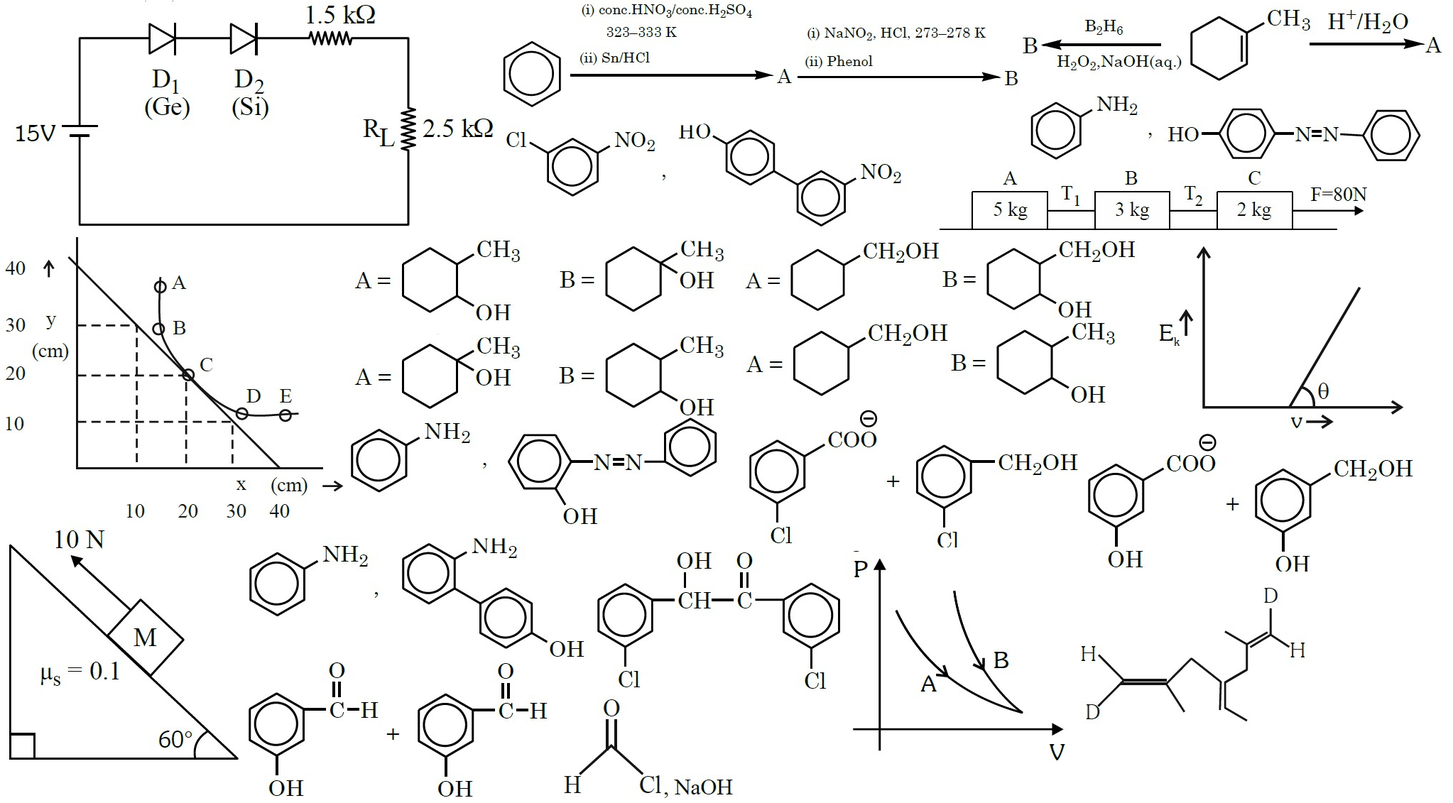
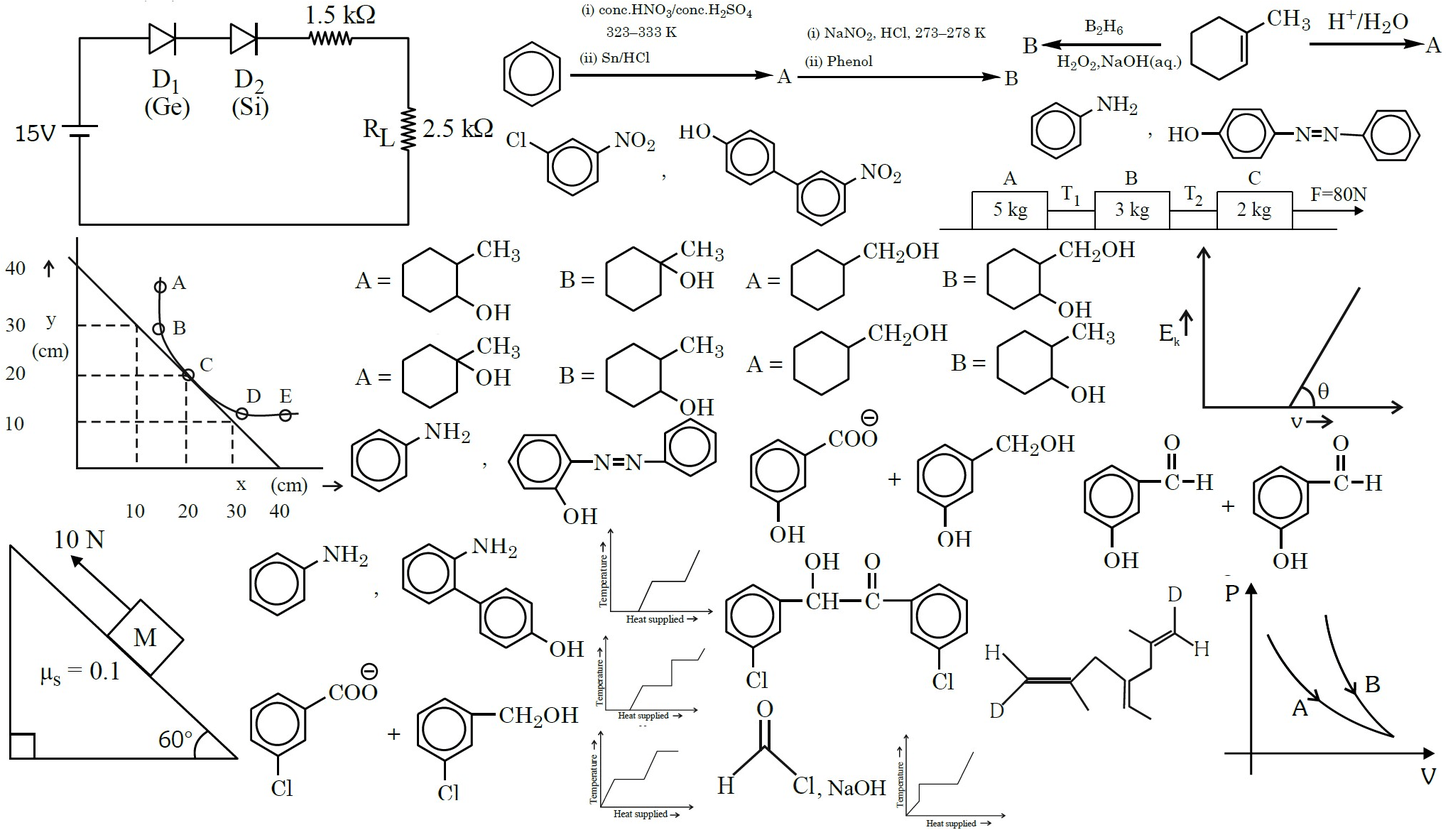
Fixed.

diff --git a/img/jee/mains/prev/jee_mn_30_jan_2024_s2.css b/img/jee/mains/prev/jee_mn_30_jan_2024_s2.css
@@ -8,70 +8,82 @@ Responsive: <div class="yourspritesname"></div>
 
 
 .jee_mn_30_jan_2024_s2_32 {max-width:338px; max-height:348px; }
-.jee_mn_30_jan_2024_s2_32::after {content: '\00a0';display: inline-block; width:338px; height:348px; background-position: 0.0585480093676815% 93.99744572158366%;background-size: 605.3254437869823% 325%;background-image: url(jee_mn_30_jan_2024_s2-0.png);padding: 0; }
+.jee_mn_30_jan_2024_s2_32::after {content: '\00a0';display: inline-block; width:338px; height:348px; background-position: 0.0585480093676815% 89.64677222898904%;background-size: 605.3254437869823% 335.91954022988506%;background-image: url(jee_mn_30_jan_2024_s2-0.png);padding: 0; }
 div.jee_mn_30_jan_2024_s2_32::after {max-width:338px; width:100%;height:0;padding: 0 0 102.9585798816568% 0;}
 .jee_mn_30_jan_2024_s2_33 {max-width:388px; max-height:268px; }
-.jee_mn_30_jan_2024_s2_33::after {content: '\00a0';display: inline-block; width:388px; height:268px; background-position: 96.86369119420989% 39.39745075318656%;background-size: 527.319587628866% 422.0149253731343%;background-image: url(jee_mn_30_jan_2024_s2-0.png);padding: 0; }
+.jee_mn_30_jan_2024_s2_33::after {content: '\00a0';display: inline-block; width:388px; height:268px; background-position: 96.86369119420989% 37.735849056603776%;background-size: 527.319587628866% 436.1940298507463%;background-image: url(jee_mn_30_jan_2024_s2-0.png);padding: 0; }
 div.jee_mn_30_jan_2024_s2_33::after {max-width:388px; width:100%;height:0;padding: 0 0 69.0721649484536% 0;}
+.jee_mn_30_jan_2024_s2_34_a {max-width:161px; max-height:140px; }
+.jee_mn_30_jan_2024_s2_34_a::after {content: '\00a0';display: inline-block; width:161px; height:140px; background-position: 66.57824933687003% 99.90281827016521%;background-size: 1270.807453416149% 835%;background-image: url(jee_mn_30_jan_2024_s2-0.png);padding: 0; }
+div.jee_mn_30_jan_2024_s2_34_a::after {max-width:161px; width:100%;height:0;padding: 0 0 86.95652173913044% 0;}
+.jee_mn_30_jan_2024_s2_34_b {max-width:179px; max-height:152px; }
+.jee_mn_30_jan_2024_s2_34_b::after {content: '\00a0';display: inline-block; width:179px; height:152px; background-position: 44.563470808784146% 72.8613569321534%;background-size: 1143.0167597765362% 769.078947368421%;background-image: url(jee_mn_30_jan_2024_s2-0.png);padding: 0; }
+div.jee_mn_30_jan_2024_s2_34_b::after {max-width:179px; width:100%;height:0;padding: 0 0 84.91620111731844% 0;}
+.jee_mn_30_jan_2024_s2_34_c {max-width:174px; max-height:127px; }
+.jee_mn_30_jan_2024_s2_34_c::after {content: '\00a0';display: inline-block; width:174px; height:127px; background-position: 44.44444444444444% 85.79654510556622%;background-size: 1175.8620689655172% 920.4724409448819%;background-image: url(jee_mn_30_jan_2024_s2-0.png);padding: 0; }
+div.jee_mn_30_jan_2024_s2_34_c::after {max-width:174px; width:100%;height:0;padding: 0 0 72.98850574712644% 0;}
+.jee_mn_30_jan_2024_s2_34_d {max-width:164px; max-height:138px; }
+.jee_mn_30_jan_2024_s2_34_d::after {content: '\00a0';display: inline-block; width:164px; height:138px; background-position: 43.35812964930925% 99.1270611057226%;background-size: 1247.560975609756% 847.1014492753624%;background-image: url(jee_mn_30_jan_2024_s2-0.png);padding: 0; }
+div.jee_mn_30_jan_2024_s2_34_d::after {max-width:164px; width:100%;height:0;padding: 0 0 84.14634146341463% 0;}
 .jee_mn_30_jan_2024_s2_36 {max-width:314px; max-height:297px; }
-.jee_mn_30_jan_2024_s2_36::after {content: '\00a0';display: inline-block; width:314px; height:297px; background-position: 68.70669745958429% 93.04556354916068%;background-size: 651.5923566878981% 380.80808080808083%;background-image: url(jee_mn_30_jan_2024_s2-0.png);padding: 0; }
+.jee_mn_30_jan_2024_s2_36::after {content: '\00a0';display: inline-block; width:314px; height:297px; background-position: 98.90300230946882% 92.88990825688073%;background-size: 651.5923566878981% 393.6026936026936%;background-image: url(jee_mn_30_jan_2024_s2-0.png);padding: 0; }
 div.jee_mn_30_jan_2024_s2_36::after {max-width:314px; width:100%;height:0;padding: 0 0 94.5859872611465% 0;}
 .jee_mn_30_jan_2024_s2_45 {max-width:699px; max-height:321px; }
-.jee_mn_30_jan_2024_s2_45::after {content: '\00a0';display: inline-block; width:699px; height:321px; background-position: 0.07423904974016332% 0.12345679012345678%;background-size: 292.7038626609442% 352.33644859813086%;background-image: url(jee_mn_30_jan_2024_s2-0.png);padding: 0; }
+.jee_mn_30_jan_2024_s2_45::after {content: '\00a0';display: inline-block; width:699px; height:321px; background-position: 0.07423904974016332% 0.1179245283018868%;background-size: 292.7038626609442% 364.17445482866043%;background-image: url(jee_mn_30_jan_2024_s2-0.png);padding: 0; }
 div.jee_mn_30_jan_2024_s2_45::after {max-width:699px; width:100%;height:0;padding: 0 0 45.92274678111588% 0;}
 .jee_mn_30_jan_2024_s2_47 {max-width:628px; max-height:108px; }
-.jee_mn_30_jan_2024_s2_47::after {content: '\00a0';display: inline-block; width:628px; height:108px; background-position: 91.74894217207334% 22.580645161290324%;background-size: 325.79617834394907% 1047.2222222222222%;background-image: url(jee_mn_30_jan_2024_s2-0.png);padding: 0; }
+.jee_mn_30_jan_2024_s2_47::after {content: '\00a0';display: inline-block; width:628px; height:108px; background-position: 91.74894217207334% 21.77191328934967%;background-size: 325.79617834394907% 1082.4074074074074%;background-image: url(jee_mn_30_jan_2024_s2-0.png);padding: 0; }
 div.jee_mn_30_jan_2024_s2_47::after {max-width:628px; width:100%;height:0;padding: 0 0 17.197452229299362% 0;}
 .jee_mn_30_jan_2024_s2_54 {max-width:483px; max-height:412px; }
-.jee_mn_30_jan_2024_s2_54::after {content: '\00a0';display: inline-block; width:483px; height:412px; background-position: 0.06397952655150352% 44.92350486787205%;background-size: 423.6024844720497% 274.5145631067961%;background-image: url(jee_mn_30_jan_2024_s2-0.png);padding: 0; }
+.jee_mn_30_jan_2024_s2_54::after {content: '\00a0';display: inline-block; width:483px; height:412px; background-position: 0.06397952655150352% 42.668428005284014%;background-size: 423.6024844720497% 283.7378640776699%;background-image: url(jee_mn_30_jan_2024_s2-0.png);padding: 0; }
 div.jee_mn_30_jan_2024_s2_54::after {max-width:483px; width:100%;height:0;padding: 0 0 85.30020703933748% 0;}
 .jee_mn_30_jan_2024_s2_62 {max-width:247px; max-height:148px; }
-.jee_mn_30_jan_2024_s2_62::after {content: '\00a0';display: inline-block; width:247px; height:148px; background-position: 43.96887159533074% 99.59308240081384%;background-size: 828.34008097166% 764.1891891891892%;background-image: url(jee_mn_30_jan_2024_s2-0.png);padding: 0; }
+.jee_mn_30_jan_2024_s2_62::after {content: '\00a0';display: inline-block; width:247px; height:148px; background-position: 55.97554196775987% 95.98432908912831%;background-size: 828.34008097166% 789.8648648648649%;background-image: url(jee_mn_30_jan_2024_s2-0.png);padding: 0; }
 div.jee_mn_30_jan_2024_s2_62::after {max-width:247px; width:100%;height:0;padding: 0 0 59.91902834008097% 0;}
 .jee_mn_30_jan_2024_s2_64_a {max-width:357px; max-height:202px; }
-.jee_mn_30_jan_2024_s2_64_a::after {content: '\00a0';display: inline-block; width:357px; height:202px; background-position: 49.2599171107164% 83.53067814854683%;background-size: 573.109243697479% 559.9009900990098%;background-image: url(jee_mn_30_jan_2024_s2-0.png);padding: 0; }
+.jee_mn_30_jan_2024_s2_64_a::after {content: '\00a0';display: inline-block; width:357px; height:202px; background-position: 59.91711071640024% 80.35160289555326%;background-size: 573.109243697479% 578.7128712871287%;background-image: url(jee_mn_30_jan_2024_s2-0.png);padding: 0; }
 div.jee_mn_30_jan_2024_s2_64_a::after {max-width:357px; width:100%;height:0;padding: 0 0 56.582633053221286% 0;}
 .jee_mn_30_jan_2024_s2_64_b {max-width:475px; max-height:201px; }
-.jee_mn_30_jan_2024_s2_64_b::after {content: '\00a0';display: inline-block; width:475px; height:201px; background-position: 66.39083386378103% 61.72043010752688%;background-size: 430.7368421052632% 562.6865671641791%;background-image: url(jee_mn_30_jan_2024_s2-0.png);padding: 0; }
+.jee_mn_30_jan_2024_s2_64_b::after {content: '\00a0';display: inline-block; width:475px; height:201px; background-position: 21.642266072565246% 96.07438016528926%;background-size: 430.7368421052632% 581.592039800995%;background-image: url(jee_mn_30_jan_2024_s2-0.png);padding: 0; }
 div.jee_mn_30_jan_2024_s2_64_b::after {max-width:475px; width:100%;height:0;padding: 0 0 42.31578947368421% 0;}
 .jee_mn_30_jan_2024_s2_64_c {max-width:450px; max-height:200px; }
-.jee_mn_30_jan_2024_s2_64_c::after {content: '\00a0';display: inline-block; width:450px; height:200px; background-position: 21.303258145363408% 99.89258861439312%;background-size: 454.6666666666667% 565.5%;background-image: url(jee_mn_30_jan_2024_s2-0.png);padding: 0; }
+.jee_mn_30_jan_2024_s2_64_c::after {content: '\00a0';display: inline-block; width:450px; height:200px; background-position: 94.9874686716792% 62.84829721362229%;background-size: 454.6666666666667% 584.5%;background-image: url(jee_mn_30_jan_2024_s2-0.png);padding: 0; }
 div.jee_mn_30_jan_2024_s2_64_c::after {max-width:450px; width:100%;height:0;padding: 0 0 44.44444444444444% 0;}
 .jee_mn_30_jan_2024_s2_64_d {max-width:472px; max-height:202px; }
-.jee_mn_30_jan_2024_s2_64_d::after {content: '\00a0';display: inline-block; width:472px; height:202px; background-position: 96.50571791613723% 65.55435952637244%;background-size: 433.47457627118644% 559.9009900990098%;background-image: url(jee_mn_30_jan_2024_s2-0.png);padding: 0; }
+.jee_mn_30_jan_2024_s2_64_d::after {content: '\00a0';display: inline-block; width:472px; height:202px; background-position: 66.26429479034307% 59.358841778697%;background-size: 433.47457627118644% 578.7128712871287%;background-image: url(jee_mn_30_jan_2024_s2-0.png);padding: 0; }
 div.jee_mn_30_jan_2024_s2_64_d::after {max-width:472px; width:100%;height:0;padding: 0 0 42.79661016949152% 0;}
 .jee_mn_30_jan_2024_s2_66 {max-width:607px; max-height:118px; }
-.jee_mn_30_jan_2024_s2_66::after {content: '\00a0';display: inline-block; width:607px; height:118px; background-position: 99.93050729673384% 0.09871668311944719%;background-size: 337.0675453047776% 958.4745762711865%;background-image: url(jee_mn_30_jan_2024_s2-0.png);padding: 0; }
+.jee_mn_30_jan_2024_s2_66::after {content: '\00a0';display: inline-block; width:607px; height:118px; background-position: 99.93050729673384% 0.09514747859181731%;background-size: 337.0675453047776% 990.6779661016949%;background-image: url(jee_mn_30_jan_2024_s2-0.png);padding: 0; }
 div.jee_mn_30_jan_2024_s2_66::after {max-width:607px; width:100%;height:0;padding: 0 0 19.43986820428336% 0;}
 .jee_mn_30_jan_2024_s2_66_a {max-width:561px; max-height:112px; }
-.jee_mn_30_jan_2024_s2_66_a::after {content: '\00a0';display: inline-block; width:561px; height:112px; background-position: 70.3030303030303% 33.36604514229637%;background-size: 364.70588235294116% 1009.8214285714286%;background-image: url(jee_mn_30_jan_2024_s2-0.png);padding: 0; }
+.jee_mn_30_jan_2024_s2_66_a::after {content: '\00a0';display: inline-block; width:561px; height:112px; background-position: 70.3030303030303% 32.16650898770104%;background-size: 364.70588235294116% 1043.75%;background-image: url(jee_mn_30_jan_2024_s2-0.png);padding: 0; }
 div.jee_mn_30_jan_2024_s2_66_a::after {max-width:561px; width:100%;height:0;padding: 0 0 19.964349376114082% 0;}
 .jee_mn_30_jan_2024_s2_66_b {max-width:557px; max-height:131px; }
-.jee_mn_30_jan_2024_s2_66_b::after {content: '\00a0';display: inline-block; width:557px; height:131px; background-position: 32.5721961047683% 45.6%;background-size: 367.3249551166966% 863.3587786259542%;background-image: url(jee_mn_30_jan_2024_s2-0.png);padding: 0; }
+.jee_mn_30_jan_2024_s2_66_b::after {content: '\00a0';display: inline-block; width:557px; height:131px; background-position: 32.5721961047683% 43.93063583815029%;background-size: 367.3249551166966% 892.3664122137404%;background-image: url(jee_mn_30_jan_2024_s2-0.png);padding: 0; }
 div.jee_mn_30_jan_2024_s2_66_b::after {max-width:557px; width:100%;height:0;padding: 0 0 23.518850987432675% 0;}
 .jee_mn_30_jan_2024_s2_66_c {max-width:540px; max-height:120px; }
-.jee_mn_30_jan_2024_s2_66_c::after {content: '\00a0';display: inline-block; width:540px; height:120px; background-position: 69.32270916334662% 44.80712166172107%;background-size: 378.8888888888889% 942.5%;background-image: url(jee_mn_30_jan_2024_s2-0.png);padding: 0; }
+.jee_mn_30_jan_2024_s2_66_c::after {content: '\00a0';display: inline-block; width:540px; height:120px; background-position: 69.32270916334662% 43.18398474737845%;background-size: 378.8888888888889% 974.1666666666666%;background-image: url(jee_mn_30_jan_2024_s2-0.png);padding: 0; }
 div.jee_mn_30_jan_2024_s2_66_c::after {max-width:540px; width:100%;height:0;padding: 0 0 22.22222222222222% 0;}
 .jee_mn_30_jan_2024_s2_66_d {max-width:558px; max-height:131px; }
-.jee_mn_30_jan_2024_s2_66_d::after {content: '\00a0';display: inline-block; width:558px; height:131px; background-position: 32.594086021505376% 32.4%;background-size: 366.6666666666667% 863.3587786259542%;background-image: url(jee_mn_30_jan_2024_s2-0.png);padding: 0; }
+.jee_mn_30_jan_2024_s2_66_d::after {content: '\00a0';display: inline-block; width:558px; height:131px; background-position: 32.594086021505376% 31.213872832369944%;background-size: 366.6666666666667% 892.3664122137404%;background-image: url(jee_mn_30_jan_2024_s2-0.png);padding: 0; }
 div.jee_mn_30_jan_2024_s2_66_d::after {max-width:558px; width:100%;height:0;padding: 0 0 23.476702508960575% 0;}
 .jee_mn_30_jan_2024_s2_68 {max-width:736px; max-height:156px; }
-.jee_mn_30_jan_2024_s2_68::after {content: '\00a0';display: inline-block; width:736px; height:156px; background-position: 53.51145038167939% 0.10256410256410256%;background-size: 277.9891304347826% 725%;background-image: url(jee_mn_30_jan_2024_s2-0.png);padding: 0; }
+.jee_mn_30_jan_2024_s2_68::after {content: '\00a0';display: inline-block; width:736px; height:156px; background-position: 53.51145038167939% 0.09871668311944719%;background-size: 277.9891304347826% 749.3589743589744%;background-image: url(jee_mn_30_jan_2024_s2-0.png);padding: 0; }
 div.jee_mn_30_jan_2024_s2_68::after {max-width:736px; width:100%;height:0;padding: 0 0 21.195652173913043% 0;}
 .jee_mn_30_jan_2024_s2_68_a {max-width:599px; max-height:165px; }
-.jee_mn_30_jan_2024_s2_68_a::after {content: '\00a0';display: inline-block; width:599px; height:165px; background-position: 48.44505874222529% 16.356107660455486%;background-size: 341.5692821368948% 685.4545454545455%;background-image: url(jee_mn_30_jan_2024_s2-0.png);padding: 0; }
+.jee_mn_30_jan_2024_s2_68_a::after {content: '\00a0';display: inline-block; width:599px; height:165px; background-position: 48.44505874222529% 15.737051792828685%;background-size: 341.5692821368948% 708.4848484848485%;background-image: url(jee_mn_30_jan_2024_s2-0.png);padding: 0; }
 div.jee_mn_30_jan_2024_s2_68_a::after {max-width:599px; width:100%;height:0;padding: 0 0 27.54590984974958% 0;}
 .jee_mn_30_jan_2024_s2_68_b {max-width:491px; max-height:188px; }
-.jee_mn_30_jan_2024_s2_68_b::after {content: '\00a0';display: inline-block; width:491px; height:188px; background-position: 21.864951768488744% 78.57900318133616%;background-size: 416.70061099796334% 601.5957446808511%;background-image: url(jee_mn_30_jan_2024_s2-0.png);padding: 0; }
+.jee_mn_30_jan_2024_s2_68_b::after {content: '\00a0';display: inline-block; width:491px; height:188px; background-position: 21.864951768488744% 75.53516819571865%;background-size: 416.70061099796334% 621.8085106382979%;background-image: url(jee_mn_30_jan_2024_s2-0.png);padding: 0; }
 div.jee_mn_30_jan_2024_s2_68_b::after {max-width:491px; width:100%;height:0;padding: 0 0 38.289205702647656% 0;}
 .jee_mn_30_jan_2024_s2_68_c {max-width:571px; max-height:110px; }
-.jee_mn_30_jan_2024_s2_68_c::after {content: '\00a0';display: inline-block; width:571px; height:110px; background-position: 97.49152542372882% 11.753183153770813%;background-size: 358.31873905429075% 1028.1818181818182%;background-image: url(jee_mn_30_jan_2024_s2-0.png);padding: 0; }
+.jee_mn_30_jan_2024_s2_68_c::after {content: '\00a0';display: inline-block; width:571px; height:110px; background-position: 97.49152542372882% 11.331444759206798%;background-size: 358.31873905429075% 1062.7272727272727%;background-image: url(jee_mn_30_jan_2024_s2-0.png);padding: 0; }
 div.jee_mn_30_jan_2024_s2_68_c::after {max-width:571px; width:100%;height:0;padding: 0 0 19.26444833625219% 0;}
 .jee_mn_30_jan_2024_s2_68_d {max-width:527px; max-height:152px; }
-.jee_mn_30_jan_2024_s2_68_d::after {content: '\00a0';display: inline-block; width:527px; height:152px; background-position: 31.92890059249506% 60.06128702757916%;background-size: 388.2352941176471% 744.078947368421%;background-image: url(jee_mn_30_jan_2024_s2-0.png);padding: 0; }
+.jee_mn_30_jan_2024_s2_68_d::after {content: '\00a0';display: inline-block; width:527px; height:152px; background-position: 31.92890059249506% 57.817109144542776%;background-size: 388.2352941176471% 769.078947368421%;background-image: url(jee_mn_30_jan_2024_s2-0.png);padding: 0; }
 div.jee_mn_30_jan_2024_s2_68_d::after {max-width:527px; width:100%;height:0;padding: 0 0 28.842504743833018% 0;}
 .jee_mn_30_jan_2024_s2_86 {max-width:342px; max-height:217px; }
-.jee_mn_30_jan_2024_s2_86::after {content: '\00a0';display: inline-block; width:342px; height:217px; background-position: 88.32159624413146% 88.8402625820569%;background-size: 598.2456140350877% 521.1981566820276%;background-image: url(jee_mn_30_jan_2024_s2-0.png);padding: 0; }
+.jee_mn_30_jan_2024_s2_86::after {content: '\00a0';display: inline-block; width:342px; height:217px; background-position: 80.39906103286386% 85.08403361344538%;background-size: 598.2456140350877% 538.7096774193549%;background-image: url(jee_mn_30_jan_2024_s2-0.png);padding: 0; }
 div.jee_mn_30_jan_2024_s2_86::after {max-width:342px; width:100%;height:0;padding: 0 0 63.45029239766082% 0;}
 
-/* $TexturePacker:SmartUpdate:c1d930d432e1ab8602310ad4c0ca22a2:10e28dc215dcaca6d09a18c9096b5087:305b36ae95e09a9448d84221d58ed21d$ */
+/* $TexturePacker:SmartUpdate:96830ebbe64d3e4aefa6103feaaf568d:4c8a7edde38707e3775f30fb8f1ecaef:305b36ae95e09a9448d84221d58ed21d$ */

diff --git a/img/jee/mains/prev/jee_mn_29_jan_2024_s1.css b/img/jee/mains/prev/jee_mn_29_jan_2024_s1.css
@@ -8,61 +8,73 @@ Responsive: <div class="yourspritesname"></div>
 
 
 .jee_mn_29_jan_2024_s1_31 {max-width:377px; max-height:222px; }
-.jee_mn_29_jan_2024_s1_31::after {content: '\00a0';display: inline-block; width:377px; height:222px; background-position: 0.16129032258064516% 89.47368421052632%;background-size: 264.45623342175065% 510.81081081081084%;background-image: url(jee_mn_29_jan_2024_s1-0.png);padding: 0; }
+.jee_mn_29_jan_2024_s1_31::after {content: '\00a0';display: inline-block; width:377px; height:222px; background-position: 44.938820912124584% 31.955922865013775%;background-size: 338.46153846153845% 427.02702702702703%;background-image: url(jee_mn_29_jan_2024_s1-0.png);padding: 0; }
 div.jee_mn_29_jan_2024_s1_31::after {max-width:377px; width:100%;height:0;padding: 0 0 58.88594164456234% 0;}
 .jee_mn_29_jan_2024_s1_46 {max-width:400px; max-height:295px; }
-.jee_mn_29_jan_2024_s1_46::after {content: '\00a0';display: inline-block; width:400px; height:295px; background-position: 0.16750418760469013% 61.97854588796186%;background-size: 249.25% 384.40677966101697%;background-image: url(jee_mn_29_jan_2024_s1-0.png);padding: 0; }
+.jee_mn_29_jan_2024_s1_46::after {content: '\00a0';display: inline-block; width:400px; height:295px; background-position: 0.1141552511415525% 79.63246554364471%;background-size: 319% 321.35593220338984%;background-image: url(jee_mn_29_jan_2024_s1-0.png);padding: 0; }
 div.jee_mn_29_jan_2024_s1_46::after {max-width:400px; width:100%;height:0;padding: 0 0 73.75% 0;}
 .jee_mn_29_jan_2024_s1_56 {max-width:402px; max-height:327px; }
-.jee_mn_29_jan_2024_s1_56::after {content: '\00a0';display: inline-block; width:402px; height:327px; background-position: 0.16806722689075632% 23.79182156133829%;background-size: 248.0099502487562% 346.7889908256881%;background-image: url(jee_mn_29_jan_2024_s1-0.png);padding: 0; }
+.jee_mn_29_jan_2024_s1_56::after {content: '\00a0';display: inline-block; width:402px; height:327px; background-position: 0.11441647597254005% 30.917874396135264%;background-size: 317.41293532338307% 289.908256880734%;background-image: url(jee_mn_29_jan_2024_s1-0.png);padding: 0; }
 div.jee_mn_29_jan_2024_s1_56::after {max-width:402px; width:100%;height:0;padding: 0 0 81.34328358208955% 0;}
 .jee_mn_29_jan_2024_s1_67 {max-width:562px; max-height:190px; }
-.jee_mn_29_jan_2024_s1_67::after {content: '\00a0';display: inline-block; width:562px; height:190px; background-position: 0.22988505747126436% 0.1059322033898305%;background-size: 177.40213523131672% 596.8421052631579%;background-image: url(jee_mn_29_jan_2024_s1-0.png);padding: 0; }
+.jee_mn_29_jan_2024_s1_67::after {content: '\00a0';display: inline-block; width:562px; height:190px; background-position: 0.1400560224089636% 0.13192612137203166%;background-size: 227.04626334519574% 498.94736842105266%;background-image: url(jee_mn_29_jan_2024_s1-0.png);padding: 0; }
 div.jee_mn_29_jan_2024_s1_67::after {max-width:562px; width:100%;height:0;padding: 0 0 33.80782918149466% 0;}
 .jee_mn_29_jan_2024_s1_67_a {max-width:172px; max-height:192px; }
-.jee_mn_29_jan_2024_s1_67_a::after {content: '\00a0';display: inline-block; width:172px; height:192px; background-position: 93.93939393939394% 78.23779193205945%;background-size: 579.6511627906976% 590.625%;background-image: url(jee_mn_29_jan_2024_s1-0.png);padding: 0; }
+.jee_mn_29_jan_2024_s1_67_a::after {content: '\00a0';display: inline-block; width:172px; height:192px; background-position: 81.97463768115942% 67.85714285714286%;background-size: 741.8604651162791% 493.75%;background-image: url(jee_mn_29_jan_2024_s1-0.png);padding: 0; }
 div.jee_mn_29_jan_2024_s1_67_a::after {max-width:172px; width:100%;height:0;padding: 0 0 111.62790697674419% 0;}
 .jee_mn_29_jan_2024_s1_67_b {max-width:199px; max-height:228px; }
-.jee_mn_29_jan_2024_s1_67_b::after {content: '\00a0';display: inline-block; width:199px; height:228px; background-position: 72.05513784461152% 89.1832229580574%;background-size: 501.00502512562815% 497.36842105263156%;background-image: url(jee_mn_29_jan_2024_s1-0.png);padding: 0; }
+.jee_mn_29_jan_2024_s1_67_b::after {content: '\00a0';display: inline-block; width:199px; height:228px; background-position: 72.60909935004642% 32.22222222222222%;background-size: 641.2060301507538% 415.7894736842105%;background-image: url(jee_mn_29_jan_2024_s1-0.png);padding: 0; }
 div.jee_mn_29_jan_2024_s1_67_b::after {max-width:199px; width:100%;height:0;padding: 0 0 114.57286432160804% 0;}
 .jee_mn_29_jan_2024_s1_67_c {max-width:204px; max-height:206px; }
-.jee_mn_29_jan_2024_s1_67_c::after {content: '\00a0';display: inline-block; width:204px; height:206px; background-position: 89.28121059268601% 57.11206896551724%;background-size: 488.72549019607845% 550.4854368932039%;background-image: url(jee_mn_29_jan_2024_s1-0.png);padding: 0; }
+.jee_mn_29_jan_2024_s1_67_c::after {content: '\00a0';display: inline-block; width:204px; height:206px; background-position: 39.55223880597015% 97.97843665768194%;background-size: 625.4901960784314% 460.19417475728153%;background-image: url(jee_mn_29_jan_2024_s1-0.png);padding: 0; }
 div.jee_mn_29_jan_2024_s1_67_c::after {max-width:204px; width:100%;height:0;padding: 0 0 100.98039215686275% 0;}
 .jee_mn_29_jan_2024_s1_67_d {max-width:195px; max-height:210px; }
-.jee_mn_29_jan_2024_s1_67_d::after {content: '\00a0';display: inline-block; width:195px; height:210px; background-position: 47.256857855361595% 88.31168831168831%;background-size: 511.28205128205127% 540%;background-image: url(jee_mn_29_jan_2024_s1-0.png);padding: 0; }
+.jee_mn_29_jan_2024_s1_67_d::after {content: '\00a0';display: inline-block; width:195px; height:210px; background-position: 58.18686401480111% 98.50948509485094%;background-size: 654.3589743589744% 451.42857142857144%;background-image: url(jee_mn_29_jan_2024_s1-0.png);padding: 0; }
 div.jee_mn_29_jan_2024_s1_67_d::after {max-width:195px; width:100%;height:0;padding: 0 0 107.6923076923077% 0;}
+.jee_mn_29_jan_2024_s1_68_a {max-width:168px; max-height:180px; }
+.jee_mn_29_jan_2024_s1_68_a::after {content: '\00a0';display: inline-block; width:168px; height:180px; background-position: 99.27797833935018% 91.14583333333333%;background-size: 759.5238095238095% 526.6666666666666%;background-image: url(jee_mn_29_jan_2024_s1-0.png);padding: 0; }
+div.jee_mn_29_jan_2024_s1_68_a::after {max-width:168px; width:100%;height:0;padding: 0 0 107.14285714285714% 0;}
+.jee_mn_29_jan_2024_s1_68_b {max-width:121px; max-height:234px; }
+.jee_mn_29_jan_2024_s1_68_b::after {content: '\00a0';display: inline-block; width:121px; height:234px; background-position: 71.42857142857143% 99.71988795518207%;background-size: 1054.5454545454545% 405.12820512820514%;background-image: url(jee_mn_29_jan_2024_s1-0.png);padding: 0; }
+div.jee_mn_29_jan_2024_s1_68_b::after {max-width:121px; width:100%;height:0;padding: 0 0 193.38842975206612% 0;}
+.jee_mn_29_jan_2024_s1_68_c {max-width:152px; max-height:185px; }
+.jee_mn_29_jan_2024_s1_68_c::after {content: '\00a0';display: inline-block; width:152px; height:185px; background-position: 84.25266903914591% 92.52948885976409%;background-size: 839.4736842105264% 512.4324324324324%;background-image: url(jee_mn_29_jan_2024_s1-0.png);padding: 0; }
+div.jee_mn_29_jan_2024_s1_68_c::after {max-width:152px; width:100%;height:0;padding: 0 0 121.71052631578948% 0;}
+.jee_mn_29_jan_2024_s1_68_d {max-width:167px; max-height:186px; }
+.jee_mn_29_jan_2024_s1_68_d::after {content: '\00a0';display: inline-block; width:167px; height:186px; background-position: 97.20468890892695% 67.32283464566929%;background-size: 764.0718562874251% 509.6774193548387%;background-image: url(jee_mn_29_jan_2024_s1-0.png);padding: 0; }
+div.jee_mn_29_jan_2024_s1_68_d::after {max-width:167px; width:100%;height:0;padding: 0 0 111.37724550898204% 0;}
 .jee_mn_29_jan_2024_s1_71 {max-width:432px; max-height:143px; }
-.jee_mn_29_jan_2024_s1_71::after {content: '\00a0';display: inline-block; width:432px; height:143px; background-position: 99.82300884955752% 0.10090817356205853%;background-size: 230.78703703703704% 793.006993006993%;background-image: url(jee_mn_29_jan_2024_s1-0.png);padding: 0; }
+.jee_mn_29_jan_2024_s1_71::after {content: '\00a0';display: inline-block; width:432px; height:143px; background-position: 66.82464454976304% 0.12422360248447205%;background-size: 295.3703703703704% 662.9370629370629%;background-image: url(jee_mn_29_jan_2024_s1-0.png);padding: 0; }
 div.jee_mn_29_jan_2024_s1_71::after {max-width:432px; width:100%;height:0;padding: 0 0 33.101851851851855% 0;}
 .jee_mn_29_jan_2024_s1_71_a {max-width:278px; max-height:157px; }
-.jee_mn_29_jan_2024_s1_71_a::after {content: '\00a0';display: inline-block; width:278px; height:157px; background-position: 55.91098748261474% 56.192425793244624%;background-size: 358.63309352517985% 722.2929936305733%;background-image: url(jee_mn_29_jan_2024_s1-0.png);padding: 0; }
+.jee_mn_29_jan_2024_s1_71_a::after {content: '\00a0';display: inline-block; width:278px; height:157px; background-position: 99.8997995991984% 0.1264222503160556%;background-size: 458.9928057553957% 603.8216560509554%;background-image: url(jee_mn_29_jan_2024_s1-0.png);padding: 0; }
 div.jee_mn_29_jan_2024_s1_71_a::after {max-width:278px; width:100%;height:0;padding: 0 0 56.47482014388489% 0;}
 .jee_mn_29_jan_2024_s1_71_b {max-width:283px; max-height:163px; }
-.jee_mn_29_jan_2024_s1_71_b::after {content: '\00a0';display: inline-block; width:283px; height:163px; background-position: 56.582633053221286% 28.527291452111225%;background-size: 352.29681978798584% 695.7055214723927%;background-image: url(jee_mn_29_jan_2024_s1-0.png);padding: 0; }
+.jee_mn_29_jan_2024_s1_71_b::after {content: '\00a0';display: inline-block; width:283px; height:163px; background-position: 40.483383685800604% 71.71974522292993%;background-size: 450.88339222614843% 581.5950920245399%;background-image: url(jee_mn_29_jan_2024_s1-0.png);padding: 0; }
 div.jee_mn_29_jan_2024_s1_71_b::after {max-width:283px; width:100%;height:0;padding: 0 0 57.59717314487632% 0;}
 .jee_mn_29_jan_2024_s1_71_c {max-width:303px; max-height:107px; }
-.jee_mn_29_jan_2024_s1_71_c::after {content: '\00a0';display: inline-block; width:303px; height:107px; background-position: 58.21325648414986% 42.94060370009737%;background-size: 329.042904290429% 1059.8130841121495%;background-image: url(jee_mn_29_jan_2024_s1-0.png);padding: 0; }
+.jee_mn_29_jan_2024_s1_71_c::after {content: '\00a0';display: inline-block; width:303px; height:107px; background-position: 41.52106885919836% 54.10225921521997%;background-size: 421.1221122112211% 885.981308411215%;background-image: url(jee_mn_29_jan_2024_s1-0.png);padding: 0; }
 div.jee_mn_29_jan_2024_s1_71_c::after {max-width:303px; width:100%;height:0;padding: 0 0 35.31353135313531% 0;}
 .jee_mn_29_jan_2024_s1_71_d {max-width:292px; max-height:146px; }
-.jee_mn_29_jan_2024_s1_71_d::after {content: '\00a0';display: inline-block; width:292px; height:146px; background-position: 97.58865248226951% 28.036437246963562%;background-size: 341.43835616438355% 776.7123287671233%;background-image: url(jee_mn_29_jan_2024_s1-0.png);padding: 0; }
+.jee_mn_29_jan_2024_s1_71_d::after {content: '\00a0';display: inline-block; width:292px; height:146px; background-position: 99.79674796747967% 19.825436408977556%;background-size: 436.986301369863% 649.3150684931506%;background-image: url(jee_mn_29_jan_2024_s1-0.png);padding: 0; }
 div.jee_mn_29_jan_2024_s1_71_d::after {max-width:292px; width:100%;height:0;padding: 0 0 50% 0;}
 .jee_mn_29_jan_2024_s1_77 {max-width:422px; max-height:131px; }
-.jee_mn_29_jan_2024_s1_77::after {content: '\00a0';display: inline-block; width:422px; height:131px; background-position: 98.08695652173913% 14.456630109670987%;background-size: 236.2559241706161% 865.6488549618321%;background-image: url(jee_mn_29_jan_2024_s1-0.png);padding: 0; }
+.jee_mn_29_jan_2024_s1_77::after {content: '\00a0';display: inline-block; width:422px; height:131px; background-position: 0.117096018735363% 99.87760097919217%;background-size: 302.3696682464455% 723.6641221374045%;background-image: url(jee_mn_29_jan_2024_s1-0.png);padding: 0; }
 div.jee_mn_29_jan_2024_s1_77::after {max-width:422px; width:100%;height:0;padding: 0 0 31.04265402843602% 0;}
 .jee_mn_29_jan_2024_s1_77_a {max-width:167px; max-height:106px; }
-.jee_mn_29_jan_2024_s1_77_a::after {content: '\00a0';display: inline-block; width:167px; height:106px; background-position: 45.78313253012048% 99.90272373540856%;background-size: 597.0059880239521% 1069.811320754717%;background-image: url(jee_mn_29_jan_2024_s1-0.png);padding: 0; }
+.jee_mn_29_jan_2024_s1_77_a::after {content: '\00a0';display: inline-block; width:167px; height:106px; background-position: 61.85752930568079% 71.85273159144893%;background-size: 764.0718562874251% 894.3396226415094%;background-image: url(jee_mn_29_jan_2024_s1-0.png);padding: 0; }
 div.jee_mn_29_jan_2024_s1_77_a::after {max-width:167px; width:100%;height:0;padding: 0 0 63.47305389221557% 0;}
 .jee_mn_29_jan_2024_s1_77_b {max-width:196px; max-height:143px; }
-.jee_mn_29_jan_2024_s1_77_b::after {content: '\00a0';display: inline-block; width:196px; height:143px; background-position: 96.75405742821474% 93.84460141271443%;background-size: 508.6734693877551% 793.006993006993%;background-image: url(jee_mn_29_jan_2024_s1-0.png);padding: 0; }
+.jee_mn_29_jan_2024_s1_77_b::after {content: '\00a0';display: inline-block; width:196px; height:143px; background-position: 65.55555555555556% 57.267080745341616%;background-size: 651.0204081632653% 662.9370629370629%;background-image: url(jee_mn_29_jan_2024_s1-0.png);padding: 0; }
 div.jee_mn_29_jan_2024_s1_77_b::after {max-width:196px; width:100%;height:0;padding: 0 0 72.95918367346938% 0;}
 .jee_mn_29_jan_2024_s1_77_c {max-width:237px; max-height:105px; }
-.jee_mn_29_jan_2024_s1_77_c::after {content: '\00a0';display: inline-block; width:237px; height:105px; background-position: 93.15789473684211% 41.20505344995141%;background-size: 420.67510548523205% 1080%;background-image: url(jee_mn_29_jan_2024_s1-0.png);padding: 0; }
+.jee_mn_29_jan_2024_s1_77_c::after {content: '\00a0';display: inline-block; width:237px; height:105px; background-position: 94.51395572666026% 48.27995255041518%;background-size: 538.3966244725739% 902.8571428571429%;background-image: url(jee_mn_29_jan_2024_s1-0.png);padding: 0; }
 div.jee_mn_29_jan_2024_s1_77_c::after {max-width:237px; width:100%;height:0;padding: 0 0 44.30379746835443% 0;}
 .jee_mn_29_jan_2024_s1_77_d {max-width:280px; max-height:100px; }
-.jee_mn_29_jan_2024_s1_77_d::after {content: '\00a0';display: inline-block; width:280px; height:100px; background-position: 56.06694560669456% 68.3752417794971%;background-size: 356.07142857142856% 1134%;background-image: url(jee_mn_29_jan_2024_s1-0.png);padding: 0; }
+.jee_mn_29_jan_2024_s1_77_d::after {content: '\00a0';display: inline-block; width:280px; height:100px; background-position: 98.59437751004016% 36.08490566037736%;background-size: 455.7142857142857% 948%;background-image: url(jee_mn_29_jan_2024_s1-0.png);padding: 0; }
 div.jee_mn_29_jan_2024_s1_77_d::after {max-width:280px; width:100%;height:0;padding: 0 0 35.714285714285715% 0;}
 .jee_mn_29_jan_2024_s1_90 {max-width:378px; max-height:86px; }
-.jee_mn_29_jan_2024_s1_90::after {content: '\00a0';display: inline-block; width:378px; height:86px; background-position: 0.16155088852988692% 99.1412213740458%;background-size: 263.7566137566138% 1318.6046511627908%;background-image: url(jee_mn_29_jan_2024_s1-0.png);padding: 0; }
+.jee_mn_29_jan_2024_s1_90::after {content: '\00a0';display: inline-block; width:378px; height:86px; background-position: 62.806236080178174% 16.82134570765661%;background-size: 337.56613756613757% 1102.3255813953488%;background-image: url(jee_mn_29_jan_2024_s1-0.png);padding: 0; }
 div.jee_mn_29_jan_2024_s1_90::after {max-width:378px; width:100%;height:0;padding: 0 0 22.75132275132275% 0;}
 
-/* $TexturePacker:SmartUpdate:9fef283b8b6a25811f6154bd58ac6f25:c03536e007ee12a03d62cd1a001b274c:2cf27e7da9d5d3b8eefe39ddaaa58900$ */
+/* $TexturePacker:SmartUpdate:b41f3a8517ec51ebc300cb4bd612968c:5abf910ef375285874d57f583dc39768:2cf27e7da9d5d3b8eefe39ddaaa58900$ */
